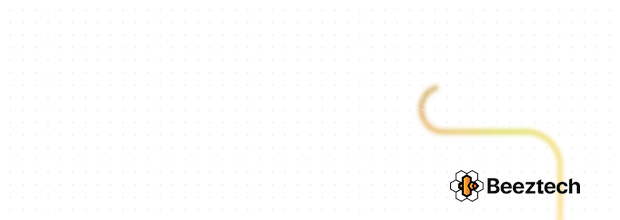
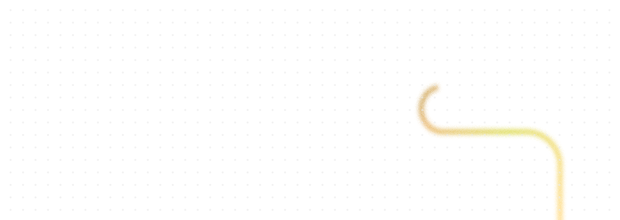
Add background image to email signature and index HTML for enhanced visual appeal. Introduce new bg-left.png file and update background styles to improve consistency across email clients.

Changed region(s): [[0.7048, 0.7636, 0.95, 0.9273]]

diff --git a/index.html b/index.html
@@ -9,14 +9,16 @@
 
 <body style="margin:0;padding:0;background:#777777;">
     <table role="presentation" cellpadding="0" cellspacing="0" border="0" width="620" height="220" bgcolor="#f7f7f7"
+        background="https://raw.githubusercontent.com/abhisheksonias/email/main/sig-bg.png"
         style="width:620px;max-width:620px;height:220px;border-collapse:collapse;table-layout:fixed;
            font-family:'Segoe UI','Helvetica Neue',Helvetica,Arial,sans-serif;
-           background-color:#f7f7f7;">
+           background-color:#f7f7f7;background-image:url('https://raw.githubusercontent.com/abhisheksonias/email/main/sig-bg.png');background-repeat:no-repeat;background-position:left top;">
         <tr>
-            <td width="306" height="220" valign="top" bgcolor="#f7f7f7"
-                style="width:306px;height:220px;padding:0;vertical-align:top;background-color:#f7f7f7;">
+            <td width="306" height="220" valign="top"
+                background="https://raw.githubusercontent.com/abhisheksonias/email/main/sig-bg.png"
+                style="width:306px;height:220px;padding:0;vertical-align:top;background-image:url('https://raw.githubusercontent.com/abhisheksonias/email/main/sig-bg.png');background-repeat:no-repeat;background-position:left top;">
                 <table role="presentation" cellpadding="0" cellspacing="0" border="0" width="306" height="220"
-                    style="width:306px;height:220px;border-collapse:collapse;font-family:'Segoe UI','Helvetica Neue',Helvetica,Arial,sans-serif;">
+                    style="width:306px;height:220px;border-collapse:collapse;background:transparent;font-family:'Segoe UI','Helvetica Neue',Helvetica,Arial,sans-serif;">
 
                     <tr>
                         <td height="15" style="height:15px;font-size:0;line-height:0;padding:0;"><img

diff --git a/signature.html b/signature.html
@@ -9,14 +9,16 @@
 
 <body style="margin:0;padding:0;background:#777777;">
     <table role="presentation" cellpadding="0" cellspacing="0" border="0" width="620" height="220" bgcolor="#f7f7f7"
+        background="https://raw.githubusercontent.com/abhisheksonias/email/main/sig-bg.png"
         style="width:620px;max-width:620px;height:220px;border-collapse:collapse;table-layout:fixed;
            font-family:'Segoe UI','Helvetica Neue',Helvetica,Arial,sans-serif;
-           background-color:#f7f7f7;">
+           background-color:#f7f7f7;background-image:url('https://raw.githubusercontent.com/abhisheksonias/email/main/sig-bg.png');background-repeat:no-repeat;background-position:left top;">
         <tr>
-            <td width="306" height="220" valign="top" bgcolor="#f7f7f7"
-                style="width:306px;height:220px;padding:0;vertical-align:top;background-color:#f7f7f7;">
+            <td width="306" height="220" valign="top"
+                background="https://raw.githubusercontent.com/abhisheksonias/email/main/sig-bg.png"
+                style="width:306px;height:220px;padding:0;vertical-align:top;background-image:url('https://raw.githubusercontent.com/abhisheksonias/email/main/sig-bg.png');background-repeat:no-repeat;background-position:left top;">
                 <table role="presentation" cellpadding="0" cellspacing="0" border="0" width="306" height="220"
-                    style="width:306px;height:220px;border-collapse:collapse;font-family:'Segoe UI','Helvetica Neue',Helvetica,Arial,sans-serif;">
+                    style="width:306px;height:220px;border-collapse:collapse;background:transparent;font-family:'Segoe UI','Helvetica Neue',Helvetica,Arial,sans-serif;">
 
                     <!-- SPACER: top margin = 15px -->
                     <tr>
